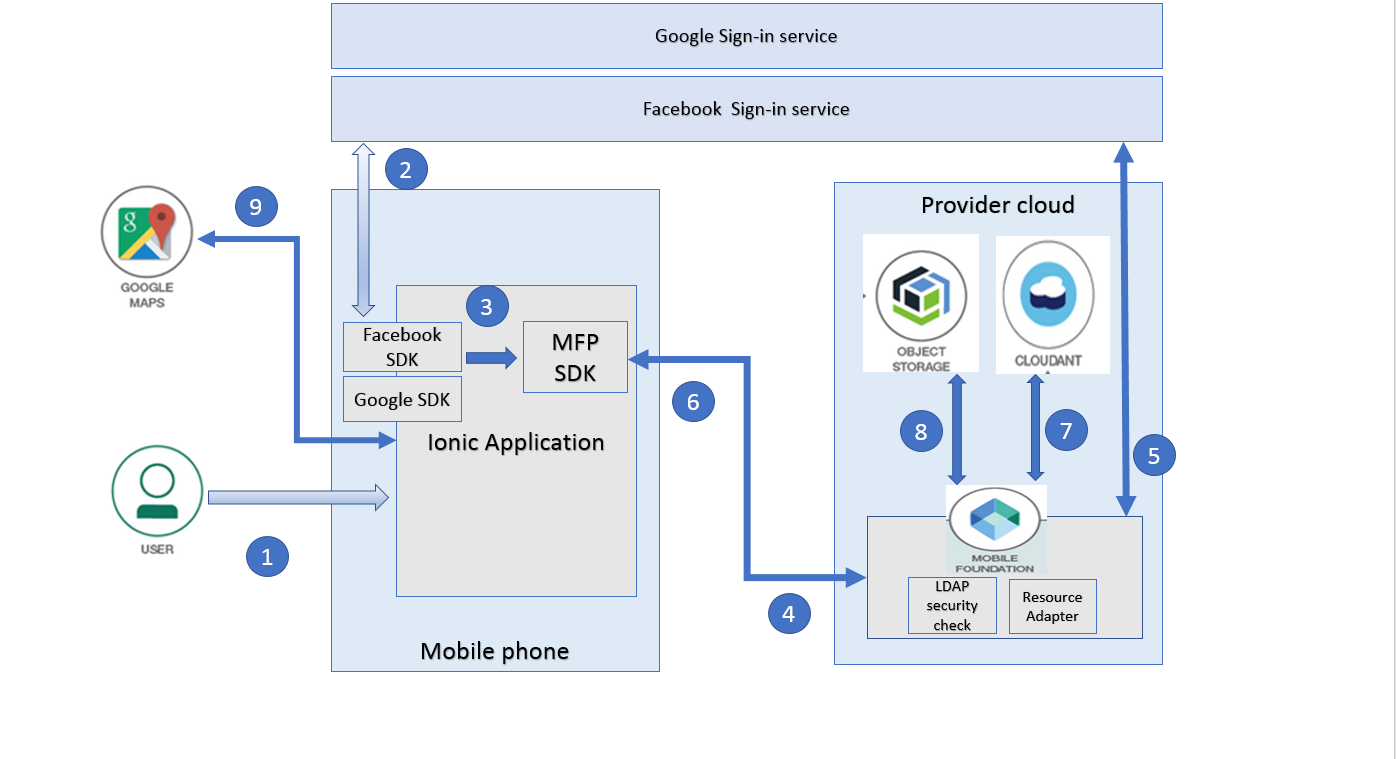
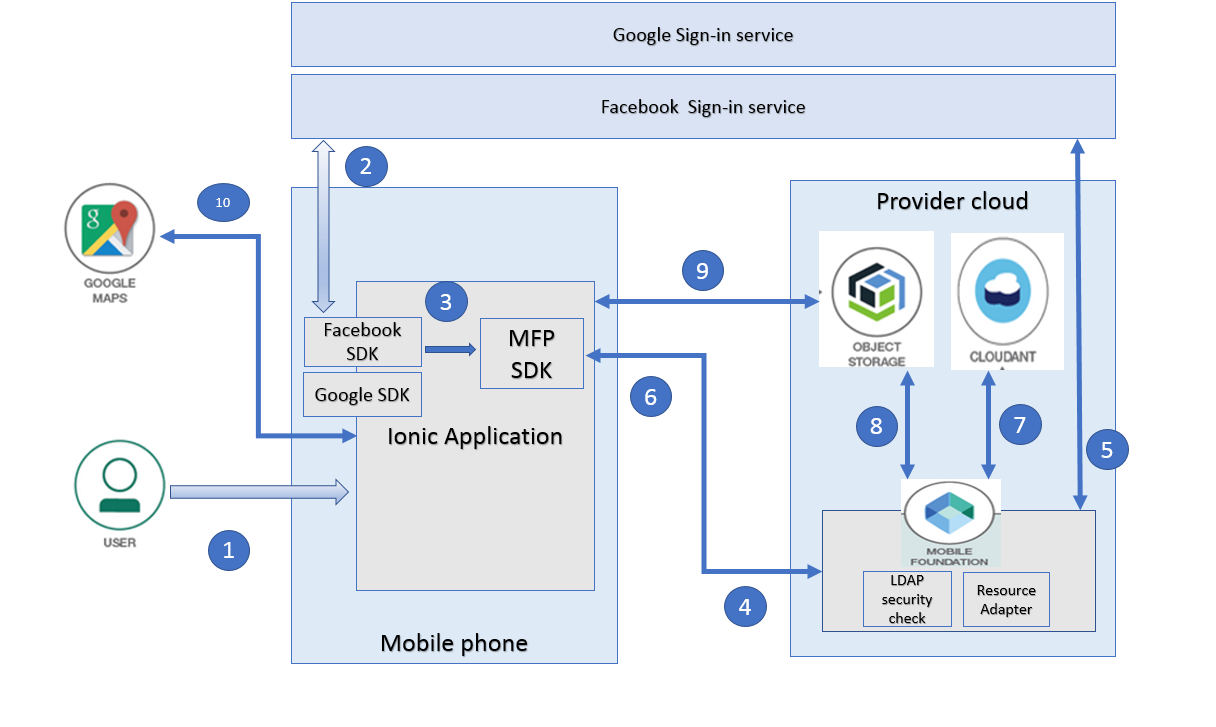
doc images update

Changed region(s): [[0.0625, 0.0, 0.9375, 0.9381], [0.4688, 0.0303, 0.6562, 0.0605]]

diff --git a/README.md b/README.md
@@ -25,14 +25,16 @@ When you have completed this code pattern, you will understand:
 The diagram above illustrates the login flow (here described with Google but also relevant to Facebook or other social providers). The diagram shows that the trigger to call social providers is initiated by the client.
 
 1. User launches the mobile app, and clicks on 'Google Sign In' button in the login screen.
-2. The Google Android SDK calls the Google Sign-In REST service.
+This Action brings up the Google login screen, where the user can enter his/her credentials.
+2. On-click of the login button in the Google login screen, Google Android SDK calls the Google Sign-In REST service.
 3. The access token from Google is received and the App calls the login API, with scope social-login and credentials (vendor + token).
 4. The MFP SDK sends the credentials and scope to the Authorization Server API. The Authorization API calls the mapped security check social-login to validate the credentials.
 5. The social-login security check validates the Google token with its web client identifier from the security check configuration. The social-login returns the authenticated user to the Authorization Server API.
 6. The Authorization Server API returns the authenticated user data to the MFP SDK. The MFPSDK calls the handleSuccess method in the challenge handler with the authenticated user data. The MFP SDK calls login success callback on the app.
 7. If user authentication succeeds, mobile app proceeds to show the home page. As part of this, it makes a call to MFP adapter to fetch the data from Cloudant NoSQL database. MFP adapter fetches the data from Cloudant and returns it to the mobile app. 
-8. The data fetched from Cloudant will have references to the images stored in Cloud Object Storage. Mobile app makes a call to MFP adapter to get the images stored in Cloud Object Storage service. Mobile app displays the data obtained from MFP adapter as a list of items.
-9. User clicks on one of the list item to see more details. A detail page is shown consisting of image and geo-location marked inside Google Maps.
+8. The data fetched from Cloudant will have references to the images stored in Cloud Object Storage. Mobile app makes a call to MFP adapter to get the Authorization token for interacting with Cloud Object Storage service. MFP adapter makes a call to Cloud Object Storage service's token manager endpoint to get the Authorization token and returns it to the mobile app.
+9.  Mobile app uses this token to further interact with the Cloud Object Storage and fetch the images from the same. Also the app caches these images. Mobile app displays the images obtained as a list of items.
+10. User clicks on one of the list item to see more details. A detail page is shown consisting of image and geo-location marked inside Google Maps.
 
 
 ### Login through on-premise LDAP server ###
